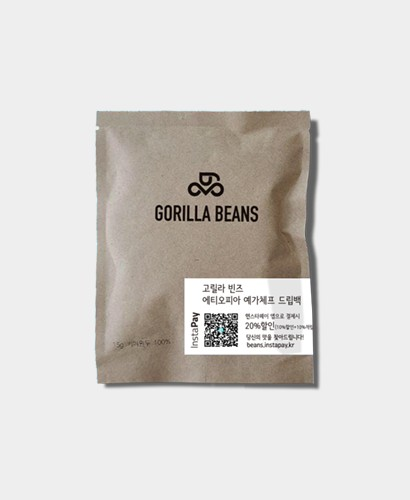
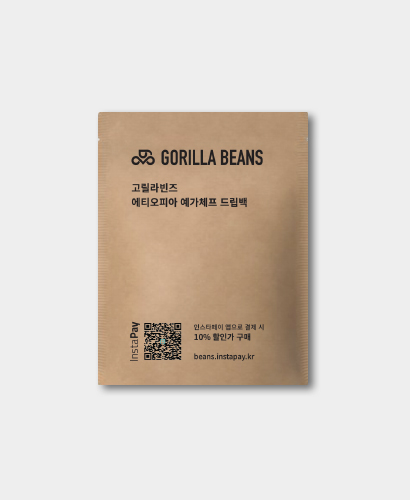
dripbag 이미지 변경

Changed region(s): [[0.2341, 0.21, 0.7902, 0.81]]

diff --git a/beans/flutter_service_worker.js b/beans/flutter_service_worker.js
@@ -5,8 +5,8 @@ const CACHE_NAME = 'flutter-app-cache';
 const RESOURCES = {
   "version.json": "aba8a33fc6a90bb124298e8f7218bd90",
 "favicon.ico": "d8f5cf2830b85693d3f69d645f32e0b2",
-"index.html": "84fc92f48313f570b6e2357a51756480",
-"/": "84fc92f48313f570b6e2357a51756480",
+"index.html": "f29a3fde6575577f22067f9d5408d35f",
+"/": "f29a3fde6575577f22067f9d5408d35f",
 "asset/loading.gif": "2cc36ac86bafa4fa95cd1f1a6706e8ef",
 "main.dart.js": "e6ea1bc5a907e2751d646353ceeb8176",
 "flutter.js": "f85e6fb278b0fd20c349186fb46ae36d",
@@ -159,7 +159,7 @@ const RESOURCES = {
 "assets/img/shop/product/thumb_beanEY2.jpg": "79e59b2c9503fdeb6a3ed53692227a3c",
 "assets/img/shop/product/thumb_stickTP_30.jpg": "e96025da404c6d8bc5f1c4f79c73ba93",
 "assets/img/shop/product/thumb_beanSDB.jpg": "d84a32774d108989544867a9ddad7275",
-"assets/img/shop/product/thumb_dripbagSL.jpg": "7227f63fd9df207e8472beab7d2fbe34",
+"assets/img/shop/product/thumb_dripbagSL.jpg": "aebe3e62c7b037219802a3bc9479196b",
 "assets/img/shop/product/thumb_beanIMM.jpg": "726d6ba26ab8ebb414ae6453f0972401",
 "assets/img/shop/product/stick_100.png": "bbb19a34e791a35bd7f35a9caa106a8a",
 "assets/img/shop/product/thumb_beanRIB.jpg": "2e744fb699940eefea6e2fc90ff44666",
@@ -176,7 +176,7 @@ const RESOURCES = {
 "assets/img/shop/product/thumb_decafGSH.jpg": "ac3f8dcf9ede0f7d5a73f8a8fbe985da",
 "assets/img/shop/product/thumb_decafED4.jpg": "d32bfb29448fc7a555fe00ac846e15b3",
 "assets/img/shop/product/thumb_beanPEA.jpg": "aef0332a77478bc21749fb9dcee1eac8",
-"assets/img/shop/product/thumb_dripbagCS.jpg": "9f866f267dcf462e00642e99def4fad2",
+"assets/img/shop/product/thumb_dripbagCS.jpg": "33f356486a083bbda5792ec716caa2c4",
 "assets/img/shop/product/02.jpg": "939575c732a370370b84d85009b926c8",
 "assets/img/shop/product/12.jpg": "939575c732a370370b84d85009b926c8",
 "assets/img/shop/product/06.jpg": "939575c732a370370b84d85009b926c8",
@@ -187,7 +187,7 @@ const RESOURCES = {
 "assets/img/shop/product/thumb_beanES2.jpg": "28c670460462cb2867ff4676b4e030c2",
 "assets/img/shop/product/thumb_beanESS.jpg": "5e5cbc7cbb4c8dab0a8efa14a62e2b71",
 "assets/img/shop/product/05.jpg": "939575c732a370370b84d85009b926c8",
-"assets/img/shop/product/thumb_dripbagCT.jpg": "d465dda6649ed05494986c0348528ddf",
+"assets/img/shop/product/thumb_dripbagCT.jpg": "c8178869e4d6a598a965beb26e57ee9e",
 "assets/img/shop/product/11.jpg": "939575c732a370370b84d85009b926c8",
 "assets/img/shop/product/thumb_beanTPB.jpg": "39dcd4f983d7ddc46a072a47b5c22cb1",
 "assets/img/shop/product/thumb_beanCSC.jpg": "418523af68403b79bc7524c6b3b2eea8",
@@ -213,10 +213,10 @@ const RESOURCES = {
 "assets/img/shop/product/thumb_beanEWW.jpg": "2fe9b7afc3fabfcfe3f4d3b4073319d9",
 "assets/img/shop/product/thumb_beanBSN.jpg": "a3a82e76cea7aec77778049f41e738c6",
 "assets/img/shop/product/thumb_GBJK.jpg": "a4337e14d7dcdf1707782f1c47ab7b8b",
-"assets/img/shop/product/thumb_dripbagEY.jpg": "bd6a4df0a4fe67d1a943fa0512fc4f3d",
-"assets/img/shop/product/thumb_dripbagKA.jpg": "4bb936770b92ec27ec2e13cc930d4313",
+"assets/img/shop/product/thumb_dripbagEY.jpg": "fe3db28e30d942d701e0624ac2d2b025",
+"assets/img/shop/product/thumb_dripbagKA.jpg": "347ff1108960da0bbb4043825e485641",
 "assets/img/shop/product/thumb_decafCMS.jpg": "240abf265f7f3a832b29264dbae2ba34",
-"assets/img/shop/product/thumb_dripbagGA.jpg": "f2b94fd0343f9ac97493755a8ded3737",
+"assets/img/shop/product/thumb_dripbagGA.jpg": "1909a4b02608348aa66b78c4ccd959fd",
 "assets/img/shop/product/thumb_beanPLU.jpg": "35a7cf11860280370cdb82da45af1c1f",
 "assets/img/shop/about.jpg": "fdcda8e713f6a31d20967251c46e3a77",
 "assets/img/shop/banner/cat_beans3.jpg": "d0091caea86940a47c3401f91c940552",

diff --git a/beans/index.html b/beans/index.html
@@ -61,7 +61,7 @@
   </div>
 
   <script>
-    var serviceWorkerVersion = '617825526';
+    var serviceWorkerVersion = '3507778107';
     var scriptLoaded = false;
     function loadMainDartJs() {
       if (scriptLoaded) {
